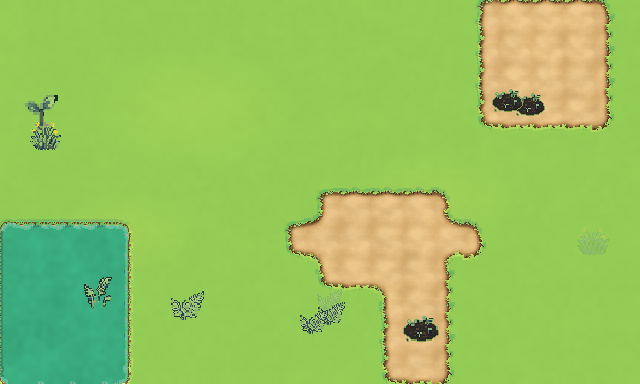
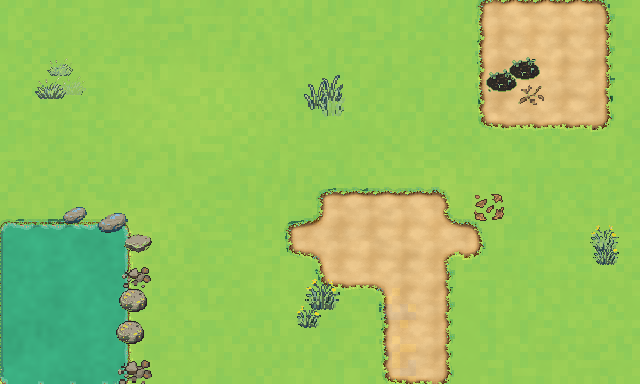
Review pass: painterly ground + pond rim + stray prop fix
Full frame-vs-ref audit found three real gaps (the top dark mass is
the intended backdrop canopy; the bottom strip is shot letterboxing):

- ground was uniformly flat — added a mottle pre-pass: seeded 8px-cell
  warm/cool blotches on G cells, the painterly wear the ref ground has
- pond edge was naked geometric — added a rim pass baking flat river
  stones along every G/D cell bordering W
- fern_bank floated mid-grass — tucked to its trunk base

diff --git a/tools/tb_ground_scatter.py b/tools/tb_ground_scatter.py
@@ -40,6 +40,11 @@ POOLS = {
           ("decal_stone_moss.png", 1)],
     "W": [("decal_duckweed.png", 4), ("decal_lily_pad.png", 2)],
 }
+# pond-rim stones: flat river rocks baked along the G<->W border —
+# the ref rims every water edge with chunky painted stones
+RIM = [("step_stone_a.png", 3), ("step_stone_b.png", 3),
+       ("step_stone_c.png", 2), ("decal_pebbles.png", 2),
+       ("decal_pebbles_moss.png", 1), ("decal_stone_moss.png", 1)]
 TILE = 32
 MIN_DIST = 10          # px inside a patch — tight enough to read as one mass
 PATCH_R = 26           # patch radius
@@ -121,7 +126,55 @@ def main():
         return False
 
     layer = Image.new("RGBA", (W, H), (0, 0, 0, 0))
-    placed = {"G": 0, "D": 0, "W": 0}
+    placed = {"G": 0, "D": 0, "W": 0, "rim": 0}
+
+    # --- mottle pre-pass: chunky warm/cool blotches on G cells so the
+    # grass has painterly wear like the ref, not a flat fill. 8px cells,
+    # small hsv deltas — banding stays in pixel grammar.
+    arr = np.asarray(base).astype(np.float32)
+    cell = 8
+    noise = rng.random((H // cell + 1, W // cell + 1))
+    for gy in range(noise.shape[0] - 1):
+        for gx in range(noise.shape[1] - 1):
+            if family_at(gx * cell + 4, gy * cell + 4) != "G":
+                continue
+            n = noise[gy, gx]
+            if n < 0.30:      # warm sunny blotch
+                dr, dg, db = 10.0, 8.0, -6.0
+            elif n > 0.78:    # cool shade blotch
+                dr, dg, db = -10.0, -4.0, 8.0
+            else:
+                continue
+            y0, y1 = gy * cell, gy * cell + cell
+            x0, x1 = gx * cell, gx * cell + cell
+            arr[y0:y1, x0:x1, 0] += dr
+            arr[y0:y1, x0:x1, 1] += dg
+            arr[y0:y1, x0:x1, 2] += db
+    base = Image.fromarray(np.clip(arr, 0, 255).astype(np.uint8))
+
+    # --- rim pass: stones along grass cells that border water ---
+    rim_cells = []
+    for r in range(rows):
+        for c in range(cols):
+            if mask[r][c] not in "GD":
+                continue
+            for dr, dc in ((-1, 0), (1, 0), (0, -1), (0, 1)):
+                nr, nc = r + dr, c + dc
+                if 0 <= nr < rows and 0 <= nc < cols and mask[nr][nc] == "W":
+                    rim_cells.append((c * TILE, r * TILE, dc, dr))
+                    break
+    for bx, by, dc, dr in rim_cells:
+        # stone sits on the grass side, snug against the water line
+        x = bx + (TILE // 2 if dc == 0 else (4 if dc < 0 else TILE - 4))
+        y = by + (TILE // 2 if dr == 0 else (4 if dr < 0 else TILE - 4))
+        x += int(rng.integers(-6, 7)); y += int(rng.integers(-6, 7))
+        x = max(8, min(W - 8, x)); y = max(8, min(H - 8, y))
+        if too_close(x, y) or box_hits_keepout(x, y, 20, 12):
+            continue
+        d = load_decal(pick(RIM, rng), rng.uniform(0.9, 1.15))
+        layer.paste(d, (x - d.width // 2, y - d.height // 2), d)
+        spaced[int(y // MIN_DIST), int(x // MIN_DIST)] = True
+        placed["rim"] += 1
 
     # --- patch pass: a few homogeneous wear patches, not confetti ---
     centres = []
@@ -164,7 +217,7 @@ def main():
     out = Image.alpha_composite(base, layer).convert("RGB")
     out.save(outp)
     print(f"scattered {sum(placed.values())} decals "
-          f"(G:{placed['G']} D:{placed['D']} W:{placed['W']}) "
+          f"(G:{placed['G']} D:{placed['D']} W:{placed['W']} rim:{placed['rim']}) "
           f"seed={seed} -> {outp}")
 
 
